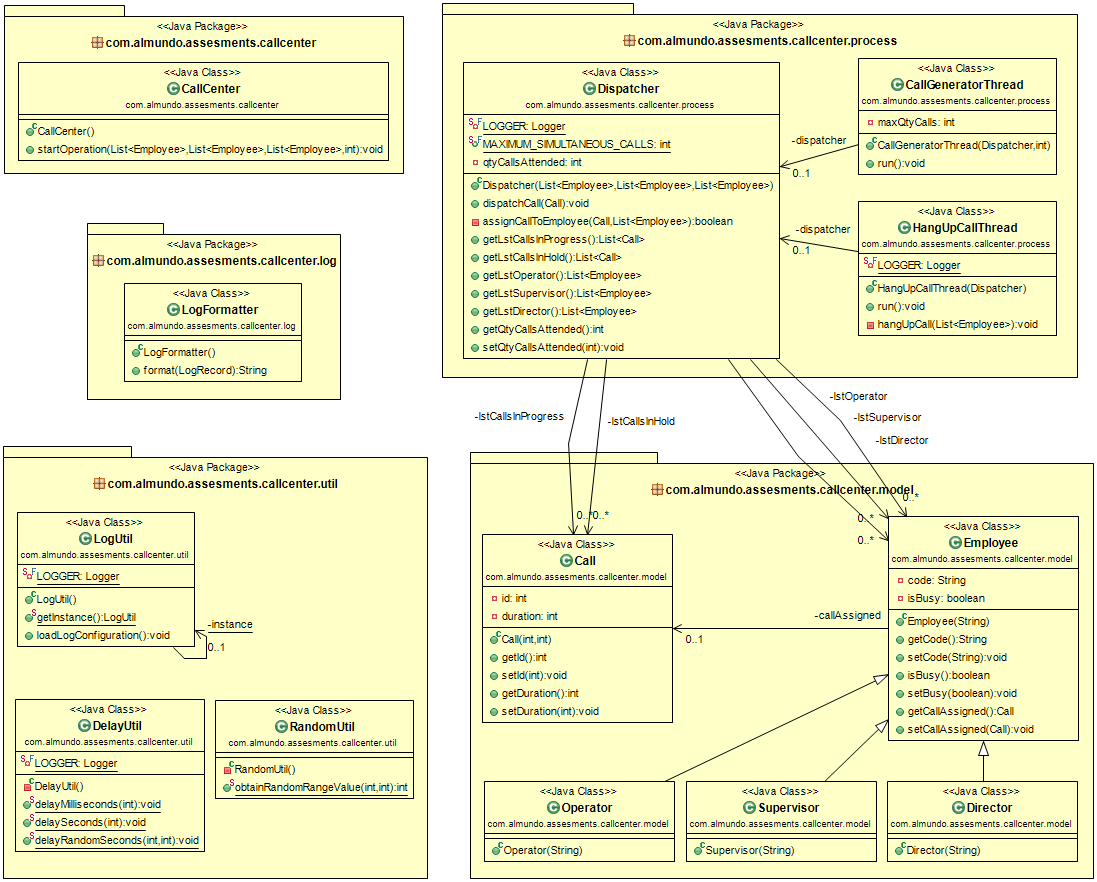
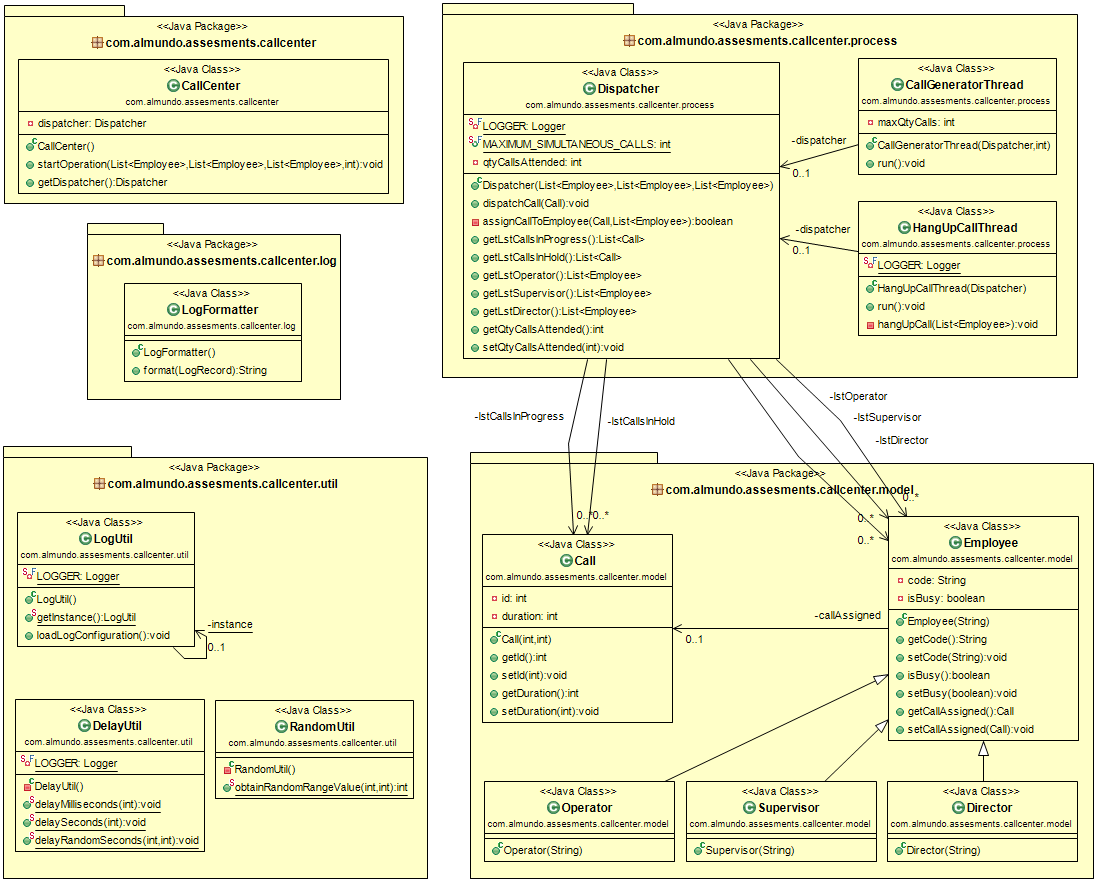
Call Center 1.0.0
- Release Version 1.0.0
- Update UML Diagrams

Changed region(s): [[0.0, 0.0612, 0.3719, 0.2449]]

diff --git a/src/test/java/com/almundo/assesments/callcenter/test/CallCenterTest.java b/src/test/java/com/almundo/assesments/callcenter/test/CallCenterTest.java
@@ -106,7 +106,7 @@ public class CallCenterTest {
     	callCenter.startOperation(lstOperator, lstSupervisor, lstDirector, MAXIMUM_CALLS_SIMULATE);
     	LOGGER.log(Level.INFO, "It's 5:00 pm... The operation has finished...");
     	
-    	// Check if Random Value is in the range
+    	// Check if Call Center attended 50 Calls
     	Assertions.assertTrue(callCenter.getDispatcher().getQtyCallsAttended() == MAXIMUM_CALLS_SIMULATE);
     }
 }
